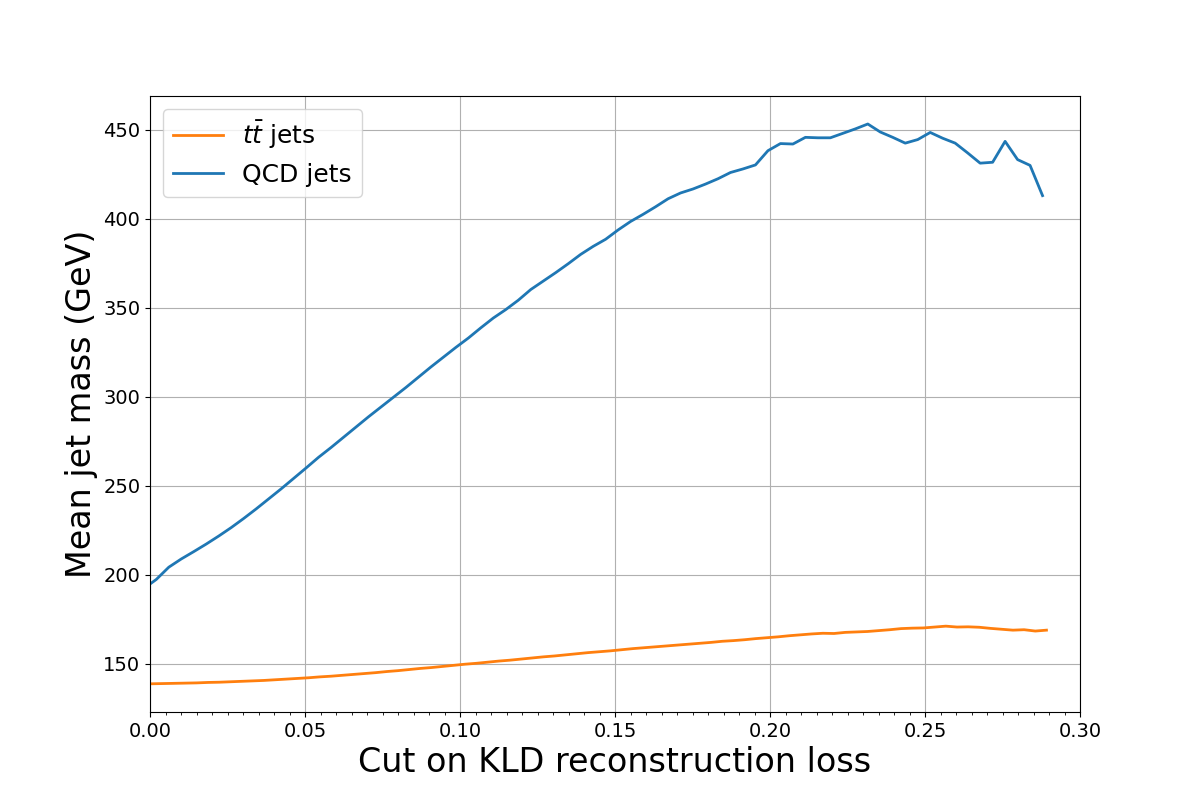
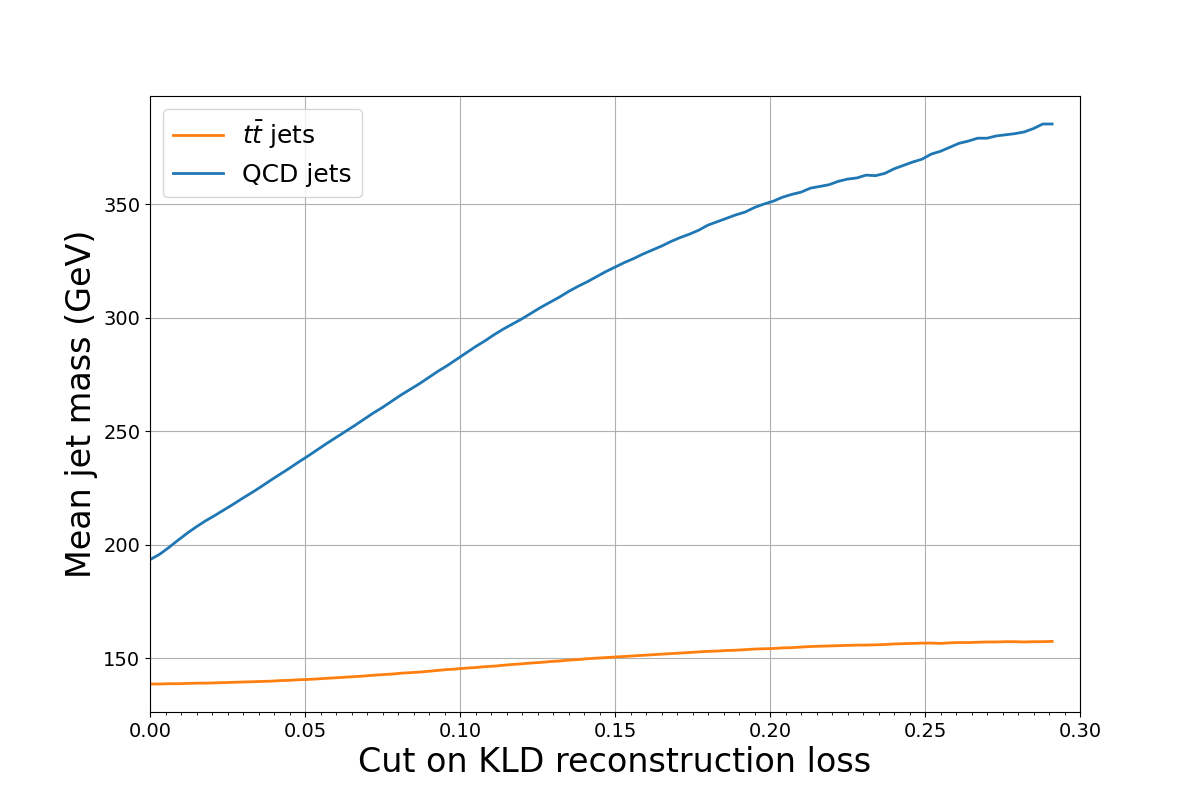
Initial commit

diff --git a/vae.py b/vae.py
@@ -1,7 +1,7 @@
 # COMMAND LINES FOR TRAINING AND VALIDATION
-# python vae.py --n_train=1e6 --n_W=0 --n_valid=1e6 --n_top=1e6 --batch_size=5000 --n_epochs=500 --lr=1e-4
+# python vae.py --n_train=1e6 --n_valid=1e6 --n_W=0 --n_top=1e6 --batch_size=5e3 --n_epochs=500 --lr=1e-4
 # COMMAND LINE FOR VALIDATION WITH PRE-TRAINED MODEL AND SCALER
-# python vae.py --n_train=1e6 --n_valid=1e6 --n_top=1e6 --n_epochs=0 --model_in='model.h5' --scaler_in='scaler.pkl'
+# python vae.py --n_train=1e6 --n_valid=1e6 --n_W=0 --n_top=1e6 --n_epochs=0 --model_in='model.h5' --scaler_in='scaler.pkl'
 
 
 # IMPORT PACKAGES AND FUNCTIONS
@@ -31,7 +31,9 @@ parser.add_argument( '--latent_dim'    , default =      10, type = int          
 parser.add_argument( '--lr'            , default =    1e-4, type = float         )
 parser.add_argument( '--beta'          , default =       1, type = float         )
 parser.add_argument( '--patience'      , default =      15, type = int           )
-parser.add_argument( '--apply_cut'     , default =       0, type = int           )
+parser.add_argument( '--n_iter'        , default =       1, type = int           )
+parser.add_argument( '--n_gpus'        , default =       1, type = int           )
+parser.add_argument( '--apply_cut'     , default = 'OFF'                         )
 parser.add_argument( '--output_dir'    , default = 'outputs'                     )
 parser.add_argument( '--model_in'      , default = ''                            )
 parser.add_argument( '--model_out'     , default = 'model.h5'                    )
@@ -43,10 +45,13 @@ args = parser.parse_args()
 # CUTS ON SIGNAL AND BACKGROUND SAMPLES
 sig_cuts = '(sample["pt"] >= 0) & (sample["pt"] <= 2000)'
 bkg_cuts = '(sample["pt"] >= 0) & (sample["pt"] <= 6000)'
+args.n_valid = (args.n_train, args.n_train+args.n_valid)
+args.n_train = (     0      , args.n_train             )
 
 
 # LOADIND PRE-TRAINED WEIGHTS AND SCALER
-model = create_model(4*args.n_constituents, args.FCN_neurons, args.latent_dim, args.lr, args.beta)
+n_gpus = min(args.n_gpus, len(tf.config.experimental.list_physical_devices('GPU')))
+model  = create_model(4*args.n_constituents, args.FCN_neurons, args.latent_dim, args.lr, args.beta, n_gpus)
 args.model_in  = args.output_dir+'/'+args.model_in ; args.model_out  = args.output_dir+'/'+args.model_out
 args.scaler_in = args.output_dir+'/'+args.scaler_in; args.scaler_out = args.output_dir+'/'+args.scaler_out
 if os.path.isfile(args.model_in):
@@ -55,46 +60,52 @@ if os.path.isfile(args.model_in):
 if os.path.isfile(args.scaler_in):
     print('Loading scaler              from', args.scaler_in)
     scaler = pickle.load(open(args.scaler_in, 'rb'))
-args.output_dir += '/'+'plots'
+args.output_dir += '/plots'
 
 
-# LOADING TRAINING DATA AND TRAINING LOOP
 if args.n_epochs > 0:
     tf.compat.v1.logging.set_verbosity(tf.compat.v1.logging.ERROR) #suppress warning messages
     for path in list(accumulate([folder+'/' for folder in args.output_dir.split('/')])):
         try: os.mkdir(path)
         except FileExistsError: pass
-    sample = make_sample(args.n_train, args.n_W, bkg_cuts, sig_cuts, bkg='qcd', sig='W')
-    sample = reweight_sample(sample, sig_bins=50, bkg_bins=100, weights=None)
-    #var_distributions(sample, args.output_dir, var='pt', sig_bins=50, bkg_bins=100); sys.exit()
-    sample = {key:utils.shuffle(sample[key], random_state=0) for key in sample}
-    train_X, valid_X  = model_selection.train_test_split(np.float32(sample['jets']), test_size=0.2, random_state=0)
-    sample_weights, _ = model_selection.train_test_split(sample['weights']         , test_size=0.2, random_state=0)
+    train_sample = make_sample(args.n_train, args.n_W, bkg_cuts, sig_cuts, bkg='qcd', sig='W')
+    train_sample = {key:utils.shuffle(train_sample[key], random_state=0) for key in train_sample}
+    valid_sample = make_sample(args.n_valid, args.n_W, bkg_cuts, sig_cuts, bkg='qcd', sig='W')
+    train_sample = reweight_sample(train_sample, sig_bins=50, bkg_bins=100, weights=None)
+    #var_distributions(train_sample, args.output_dir, var='pt', sig_bins=50, bkg_bins=100); sys.exit()
+    train_X, valid_X = train_sample['jets'], valid_sample['jets']
     if not os.path.isfile(args.scaler_in): scaler = fit_scaler(train_X, args.scaler_out)
     train_X, valid_X = apply_scaler(train_X, scaler), apply_scaler(valid_X, scaler); print()
+    print('Train sample:'   , format(len(train_X), '8.0f')  , 'jets'    )
+    print('Valid sample:'   , format(len(valid_X), '8.0f')  , 'jets\n'  )
+    print('Using TensorFlow', tf.__version__, 'with', n_gpus, 'GPU(s)\n')
     callbacks = callback(args.model_out, args.patience, 'val_loss')
     training  = model.fit(train_X, train_X, validation_data=(valid_X,valid_X),
-                          callbacks=callbacks, sample_weight=sample_weights,
+                          callbacks=callbacks, sample_weight=train_sample['weights'],
                           batch_size=int(args.batch_size), epochs=args.n_epochs )
-    model.load_weights(args.model_out); print()
+    model.load_weights(args.model_out)
 
 
 # LOADING VALIDATION DATA AND MODEL PREDICTIONS
-args.n_train = (args.n_train, args.n_train+args.n_valid)
-sample = make_sample(args.n_train, args.n_top, bkg_cuts, sig_cuts, bkg='qcd', sig='top')
+sample = make_sample(args.n_valid, args.n_top, bkg_cuts, sig_cuts, bkg='qcd', sig='top')
 y_true = np.int_(np.concatenate([np.zeros(np.sum(sample['JZW']==-1)), np.ones(np.sum(sample['JZW']>=0))]))
 #var_distributions(sample, args.output_dir, var='M', sig_bins=200, bkg_bins=600); sys.exit()
+print('\nValid sample predictions')
 X_true = apply_scaler(sample['jets'], scaler); print()
-X_pred = model.predict(X_true, batch_size=10000, verbose=1); print()
+#X_pred = model.predict(X_true, batch_size=max(1,n_gpus)*10000, verbose=1); print()
+X_pred = np.empty(X_true.shape+(args.n_iter,))
+for n in np.arange(args.n_iter):
+    X_pred[...,n] = model.predict(X_true, batch_size=max(1,n_gpus)*10000, verbose=1)
+X_pred = np.mean(X_pred, axis=2); print()
 
 
 # APPLY CUT ON RECONSTRUCTION LOSS
-if args.apply_cut:
+if args.apply_cut == 'ON':
     sample, y_true = apply_cut(y_true, X_true, X_pred, sample, metric='JSD')
     var_distributions(sample, args.output_dir, var='M', sig_bins=200, bkg_bins=600); sys.exit()
 
 
-# PLOTTING RESULTS
+# PLOTTING RESULTS'
 metrics_list = ['JSD', 'MSE', 'KLD'] + ['EMD']; #sample['weights'] = None
 processes = [mp.Process(target=pt_reconstruction, args=(X_true, X_pred, y_true, sample['weights'], args.output_dir))]
 for metric in metrics_list:

diff --git a/plots.py b/plots.py
@@ -1,9 +1,9 @@
 import numpy             as np
 import multiprocessing   as mp
 import matplotlib.pyplot as plt
-from matplotlib          import pylab, ticker
-from sklearn             import metrics
-from utils               import loss_function, get_4v
+from matplotlib import pylab, ticker
+from sklearn    import metrics
+from utils      import loss_function, get_4v
 
 
 def var_distributions(sample, output_dir, var, sig_bins, bkg_bins, density=True, log=True):
@@ -16,9 +16,8 @@ def var_distributions(sample, output_dir, var, sig_bins, bkg_bins, density=True,
         condition = sample['JZW']==-1 if n==0 else sample['JZW']>= 0 if n==1 else sample['JZW']>=-2
         if not np.any(condition): continue
         variable  = sample[var][condition]; weights = sample['weights'][condition]
-        min_val   = np.min(variable)
-        bin_width = (np.max(variable) - min_val) / n_bins[n]
-        bins      = list(np.arange(min_val, np.max(variable), bin_width)) + [np.max(variable)+1e-3]
+        bin_width = (np.max(variable) - np.min(variable)) / n_bins[n]
+        bins      = list(np.arange(np.min(variable), np.max(variable), bin_width)) + [np.max(variable)+1e-3]
         weights  *= 100/(np.sum(sample['weights'])) #weights *= 100/(np.sum(weights))
         if density:
             indices  = np.searchsorted(bins, variable, side='right')
@@ -69,21 +68,20 @@ def pt_reconstruction(X_true, X_pred, y_true, weights, output_dir):
 
 
 def loss_distributions(y_true, X_loss, metric, weights, output_dir, n_bins=100):
-    plt.figure(figsize=(12,8)); pylab.grid(True); axes = plt.gca()
-    bin_width = np.max(X_loss)/n_bins; bins = np.arange(0, np.max(X_loss)+bin_width, bin_width)
-    if metric == 'EMD': bin_width = 30/n_bins; bins = np.arange(0, 30+bin_width, bin_width)
-    if metric == 'KLD': bin_width = 0.3/n_bins; bins = np.arange(0, 30+bin_width, bin_width)
-    labels = [r'$t\bar{t}$ jets', 'QCD jets']; colors = ['tab:orange', 'tab:blue']
+    max_loss  = {'JSD':0.3, 'MSE':0.15, 'EMD':25, 'KLD':0.3}
+    max_loss  = min(max_loss[metric], np.max(X_loss))
+    bin_width = max_loss/n_bins
+    bins      = list(np.arange(0, max_loss, bin_width)) + [max_loss]
+    labels    = [r'$t\bar{t}$ jets', 'QCD jets']; colors = ['tab:orange', 'tab:blue']
     if np.any(weights) == None: weights = np.array(len(y_true)*[1.])
+    plt.figure(figsize=(12,8)); pylab.grid(True); axes = plt.gca()
     for n in set(y_true):
         hist_weights  = weights[y_true==n]
         hist_weights *= 100/np.sum(hist_weights)/bin_width
         pylab.hist(X_loss[y_true==n], bins, histtype='step', weights=hist_weights,
                    log=False, label=labels[n], color=colors[n], lw=2)
-    if metric == 'JSD': pylab.xlim(0, 0.3)
-    if metric == 'MSE': pylab.xlim(0, 0.15); pylab.xticks(np.arange(0,0.16,0.05))
-    if metric == 'EMD': pylab.xlim(0, 25)
-    if metric == 'KLD': pylab.xlim(0, 0.3)
+    pylab.xlim(0, max_loss)
+    #pylab.xticks(np.arange(0,0.16,0.05))
     axes.xaxis.set_minor_locator(ticker.AutoMinorLocator(10))
     axes.tick_params(axis='both', which='major', labelsize=14)
     plt.xlabel(metric+' reconstruction loss', fontsize=24)
@@ -98,16 +96,13 @@ def mass_correlation(y_true, X_loss, metric, X_mass, output_dir, n_bins=100):
     for n in set(y_true):
         n_loss   = X_loss[y_true==n]
         n_mass   = X_mass[y_true==n]
-        loss_min = np.min(n_loss); loss_max = np.max(n_loss); loss_step = (loss_max-loss_min)/n_bins
-        if metric == 'EMD': loss_min = np.min(n_loss); loss_max = 30; loss_step = (loss_max-loss_min)/n_bins
-        if metric == 'KLD': loss_min = np.min(n_loss); loss_max = 0.3; loss_step = (loss_max-loss_min)/n_bins
-        losses  += [np.arange(loss_min, loss_max, loss_step)[:-2]]
+        max_loss  = {'JSD':0.3, 'MSE':0.15, 'EMD':25, 'KLD':0.3}
+        max_loss  = min(max_loss[metric], np.max(n_loss))
+        bin_width = max_loss/n_bins
+        losses  += [np.arange(0, max_loss, bin_width)[:-2]]
         masses  += [[np.mean(n_mass[n_loss>loss]) for loss in losses[n]]]
     plt.figure(figsize=(12,8)); pylab.grid(True); axes = plt.gca()
-    if metric == 'JSD': pylab.xlim(0, 0.3)
-    if metric == 'MSE': pylab.xlim(0, 0.15)
-    if metric == 'EMD': pylab.xlim(0, 25)
-    if metric == 'KLD': pylab.xlim(0, 0.3)
+    pylab.xlim(0, max_loss)
     axes.xaxis.set_minor_locator(ticker.AutoMinorLocator(10))
     axes.tick_params(axis='both', which='major', labelsize=14)
     plt.xlabel('Cut on '+metric+' reconstruction loss', fontsize=24)
@@ -174,5 +169,5 @@ def ROC_curves(X_true, y_true, X_pred, weights, output_dir, metrics_list, wps):
     plt.ylabel('$G_{S/B}=\epsilon_{\operatorname{sig}}/\epsilon_{\operatorname{bkg}}$', fontsize=25)
     axes.tick_params(axis='both', which='major', labelsize=12)
     plt.legend(loc='upper right', fontsize=16)
-    file_name = output_dir+'/'+'ROC_plots.png'
+    file_name = output_dir+'/'+'ROC_curves.png'
     print('Saving ROC curves         to:', file_name); plt.savefig(file_name)

diff --git a/utils.py b/utils.py
@@ -1,12 +1,12 @@
 import numpy           as np
 import multiprocessing as mp
 import sys, h5py, time, pickle, warnings
-from   sklearn         import preprocessing, metrics
-from   scipy.spatial   import distance
-from   energyflow      import emd
+from   sklearn       import preprocessing, metrics
+from   scipy.spatial import distance
+from   energyflow    import emd
 
 
-def make_sample(bkg_idx, sig_idx, bkg_cuts, sig_cuts, bkg, sig, normalization=True):
+def make_sample(bkg_idx, sig_idx, bkg_cuts, sig_cuts, bkg, sig, normalization=True, upsample=False):
     data_path  = '/opt/tmp/godin/AD_data'
     data_files = {'qcd':'AtlasMCdijet36.h5', 'W':'resamples_oe_w.h5', 'top':'AtlasMCttbar.h5'}
     bkg_file   = data_path + '/' + data_files[bkg]
@@ -15,12 +15,22 @@ def make_sample(bkg_idx, sig_idx, bkg_cuts, sig_cuts, bkg, sig, normalization=Tr
     if np.isscalar(sig_idx): sig_idx = (0, sig_idx)
     if sig_idx[0] != sig_idx[1]: sig_sample = load_data(sig_file, 'constituents', sig_idx, cuts=sig_cuts)
     if bkg_idx[0] != bkg_idx[1]: bkg_sample = load_data(bkg_file, 'constituents', bkg_idx, cuts=bkg_cuts)
-    if   'sig_sample' not in locals(): sample = bkg_sample
-    elif 'bkg_sample' not in locals(): sample = sig_sample
-    else: sample = {key:np.concatenate([sig_sample[key], bkg_sample[key]]) for key in bkg_sample}
+    if   'sig_sample' not in locals():
+        sample = bkg_sample
+    elif 'bkg_sample' not in locals():
+        sample = sig_sample
+    else:
+        if sig=='W' and upsample: sig_sample = upsampling(sig_sample, len(list(bkg_sample.values())[0]))
+        sample = {key:np.concatenate([sig_sample[key], bkg_sample[key]]) for key in bkg_sample}
     if normalization: sample['jets'] /= sample['pt'][:,np.newaxis]
     #for key in sample: print(key, sample[key].shape, sample[key].dtype)
     return sample
+
+
+def upsampling(sample, target_size):
+    sample_size = len(list(sample.values())[0])
+    indices = np.random.choice(np.arange(sample_size), target_size, replace=sample_size<target_size)
+    return {key: np.take(sample[key], indices, axis=0) for key in sample}
 
 
 def load_data(data_file, data_key, idx, n_constituents=20, cuts='', multiprocess=True):
@@ -113,7 +123,7 @@ def JSD(P, Q, idx, return_dict, reshape=False):
     else: return_dict[idx] = [distance.jensenshannon(P[n,:], Q[n,:]) for n in np.arange(idx[0],idx[1])]
 def EMD(P, Q, idx, return_dict, n_iter=int(1e7)):
     jets_3v_pairs    = zip(jets_3v(P[idx[0]:idx[1]]), jets_3v(Q[idx[0]:idx[1]]))
-    return_dict[idx] = [emd.emd(P, Q, return_flow=False, n_iter_max=n_iter) for P, Q in jets_3v_pairs]
+    return_dict[idx] = [emd.emd_pot(P, Q, return_flow=False, n_iter_max=n_iter) for P, Q in jets_3v_pairs]
 def jets_3v(sample, idx=[0,None]):
     sample = np.float32(sample[idx[0]:idx[1]])
     sample = np.reshape(sample, (-1,int(sample.shape[1]/4),4))
@@ -127,7 +137,6 @@ def jets_3v(sample, idx=[0,None]):
 
 
 def loss_function(P, Q, metric, delta=1e-16):
-    P, Q = np.maximum(np.float64(P), delta), np.maximum(np.float64(Q), delta)
     if metric == 'JSD' or metric == 'EMD':
         idx_tuples = get_idx(len(P), n_sets=mp.cpu_count())
         target     = JSD if metric == 'JSD' else EMD
@@ -135,17 +144,17 @@ def loss_function(P, Q, metric, delta=1e-16):
         processes  = [mp.Process(target=target, args=(P, Q, idx, return_dict)) for idx in idx_tuples]
         for task in processes: task.start()
         for task in processes: task.join()
-        loss = np.concatenate([return_dict[idx] for idx in idx_tuples])
-    if metric == 'MSE'   : loss = np.mean(      (P - Q)**2, axis=1)
-    if metric == 'MAE'   : loss = np.mean(np.abs(P - Q)   , axis=1)
-    if metric == 'KLD'   : loss = np.mean(P*np.log(P/Q)   , axis=1)
-    if metric == 'X-S'   : loss = np.mean(Q*np.log(1/P)   , axis=1)
-    if metric == 'DeltaE': loss = jets_4v(P)['E'] - jets_4v(Q)['E']
-    return loss
+        return np.concatenate([return_dict[idx] for idx in idx_tuples])
+    if metric == 'MSE'   : return np.mean(      (P - Q)**2, axis=1)
+    if metric == 'MAE'   : return np.mean(np.abs(P - Q)   , axis=1)
+    if metric == 'DeltaE': return jets_4v(P)['E'] - jets_4v(Q)['E']
+    P, Q = np.maximum(np.float64(P), delta), np.maximum(np.float64(Q), delta)
+    if metric == 'KLD'   : return np.mean(P*np.log(P/Q)   , axis=1)
+    if metric == 'X-S'   : return np.mean(Q*np.log(1/P)   , axis=1)
 
 
 def fit_scaler(sample, scaler_out, reshape=True):
-    print('Fitting quantile transform', end=' --> ', flush=True); start_time = time.time()
+    print('Fitting quantile transform', end='  --> ', flush=True); start_time = time.time()
     if reshape: sample = np.reshape(sample, (-1,4))
     scaler = preprocessing.QuantileTransformer(n_quantiles=10000).fit(sample)
     print('(', '\b'+format(time.time() - start_time, '2.1f'), '\b'+' s)')

diff --git a/models.py b/models.py
@@ -4,13 +4,15 @@ from   tensorflow.keras.layers import Flatten, Dense, concatenate, Reshape, Drop
 from   tensorflow.keras        import Input, regularizers, models, callbacks, mixed_precision, losses, optimizers
 
 
-def create_model(input_dim, FCN_neurons, latent_dim, lr, beta):
-    #model = FCN_AE(input_dim, FCN_neurons, latent_dim)
-    model = FCN_VAE(input_dim, FCN_neurons, latent_dim, beta)
-    print('\nNEURAL NETWORK ARCHITECTURE'); model.summary(); print()
-    model.compile(optimizer=optimizers.Adam(lr=lr, amsgrad=False), loss='binary_crossentropy')
-    #model.compile(optimizer=optimizers.Adam(lr=lr, amsgrad=True), loss='mean_squared_error')
-    #model.compile(optimizer=optimizers.RMSprop(lr=lr), loss='binary_crossentropy')
+def create_model(input_dim, FCN_neurons, latent_dim, lr, beta, n_gpus):
+    tf.debugging.set_log_device_placement(False)
+    strategy = tf.distribute.MirroredStrategy(devices=['/gpu:'+str(n) for n in np.arange(n_gpus)])
+    with strategy.scope():
+        model = FCN_VAE(input_dim, FCN_neurons, latent_dim, beta)
+        print('\nNEURAL NETWORK ARCHITECTURE'); model.summary(); print()
+        model.compile(optimizer=optimizers.Adam(lr=lr, amsgrad=False), loss='binary_crossentropy')
+        #model.compile(optimizer=optimizers.Adam(lr=lr, amsgrad=True), loss='mean_squared_error')
+        #model.compile(optimizer=optimizers.RMSprop(lr=lr), loss='binary_crossentropy')
     return model
 
 
@@ -55,12 +57,12 @@ def FCN_VAE(input_dim, FCN_neurons, latent_dim, beta):
     for n_neurons in FCN_neurons[::-1]: z = Dense(n_neurons, activation='selu')(z)
     z = Dense(input_dim, activation='sigmoid')(z)
     decoder        = models.Model(inputs=decoder_inputs, outputs=z)
-    coding         = encoder(inputs=encoder_inputs)
+    coding         = encoder(encoder_inputs)
     reconstruction = decoder(coding)
     vae            = models.Model(inputs=encoder_inputs, outputs=reconstruction)
     latent_loss    = -0.5 * tf.keras.backend.sum(1 + coding_log_var - tf.exp(coding_log_var)
                                                  - tf.square(coding_mean), axis=-1)
-    vae.add_loss(beta * tf.keras.backend.mean(latent_loss)/input_dim)
+    vae.add_loss(beta*tf.keras.backend.mean(latent_loss)/input_dim)
     return vae
 
 

diff --git a/README.md b/README.md
@@ -1,0 +1,62 @@
+# ATLAS-VAE
+Variational autoencoder for anomaly detection at the Large Hadron Collider
+
+
+# Training at LPS (atlas15 or atlas16)
+1) Clone framework from GitHub
+   ```
+   git clone git@github.com:dominiquegodin/ATLAS-VAE.git
+   ```
+2) Move to framework directory
+   ```
+   cd ATLAS-VAE
+   ```
+3) Edit command line in shell script vae.sh
+   ```
+   emacs vae.sh
+   ```
+4) Send single job to Slurm manager
+   ```
+   sbatch -w atlas15 sbatch.sh
+   ```
+5) Send array jobs to Slurm manager (e.g. id 1 to 10)
+   ```
+   sbatch -w atlas15 sbatch.sh
+   ```
+6) Report job status
+   ```
+   squeue
+   ```
+7) Report NVIDIA GPU status (memory, power usage, temperature, fan speed, etc.)
+   ```
+   nvidia-smi
+   ```
+8) Cancel job
+   ```
+   scancel $job_id
+9) Use Slurm interactively and request appropriate ressources
+   ```
+   ssh atlas15
+   cd ATLAS-VAE
+   salloc -w atlas15 --time=00:30:00
+   . sbatch.sh
+   ```
+
+
+# Using vae.py arguments
+* n_train: number of training QCD jets
+* n_W    : number of training W jets
+* n_valid: number of validation QCD jets
+* n_top  : number of validation top jets
+* n_top  : number of validation top jets
+* n_constituents: number of constituents
+* batch_size: size of training batches
+* n_epochs: number of training epochs
+* FCN_neurons: encoder/decoder neurons layout
+* latent_dim: latent space dimension
+* lr: initial learning rate
+* beta: beta parameter
+* patience: learning rate patience
+* n_iter: number of iterations for validation
+* n_gpus: number of GPUs for distributed training
+* apply_cut: apply best cut to mass histograms
